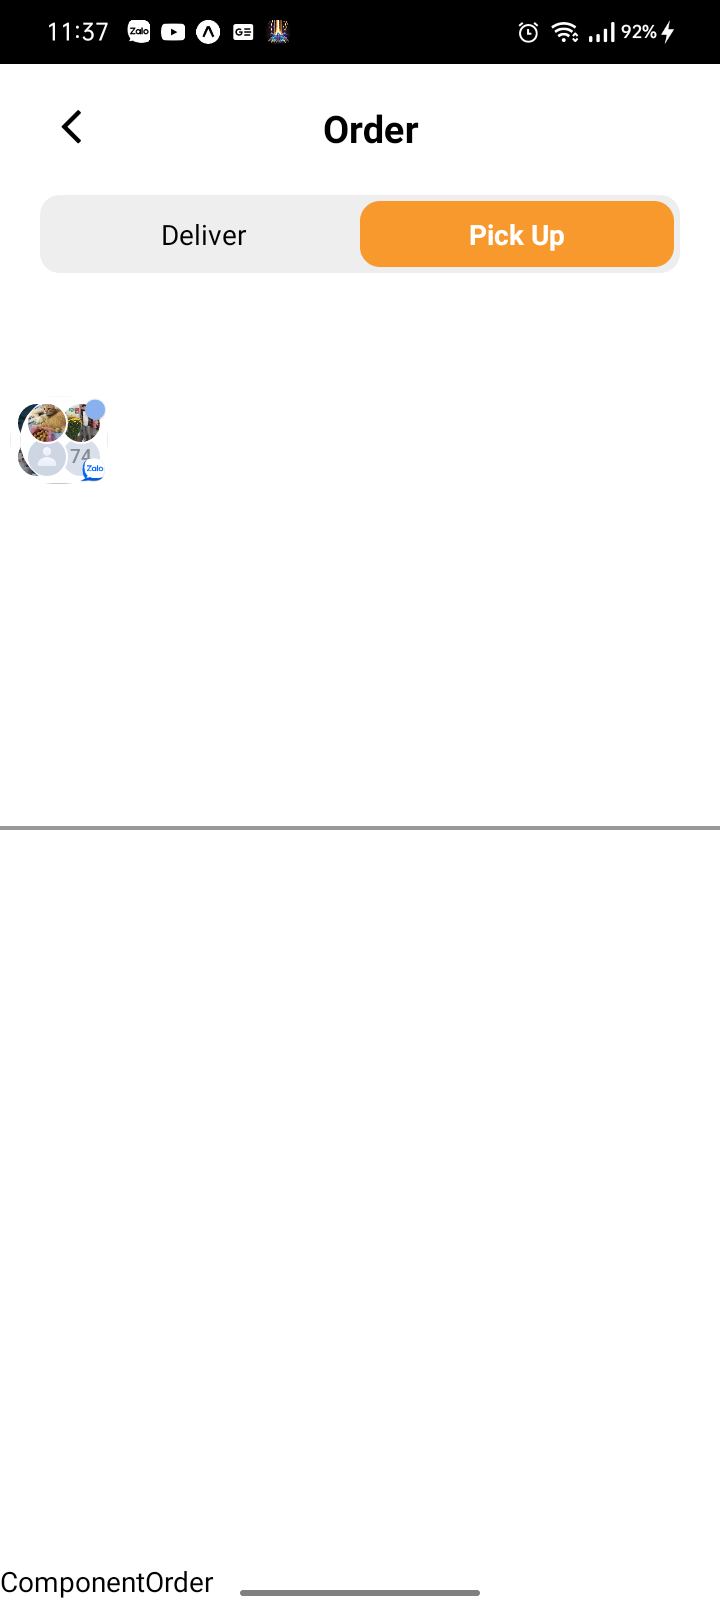
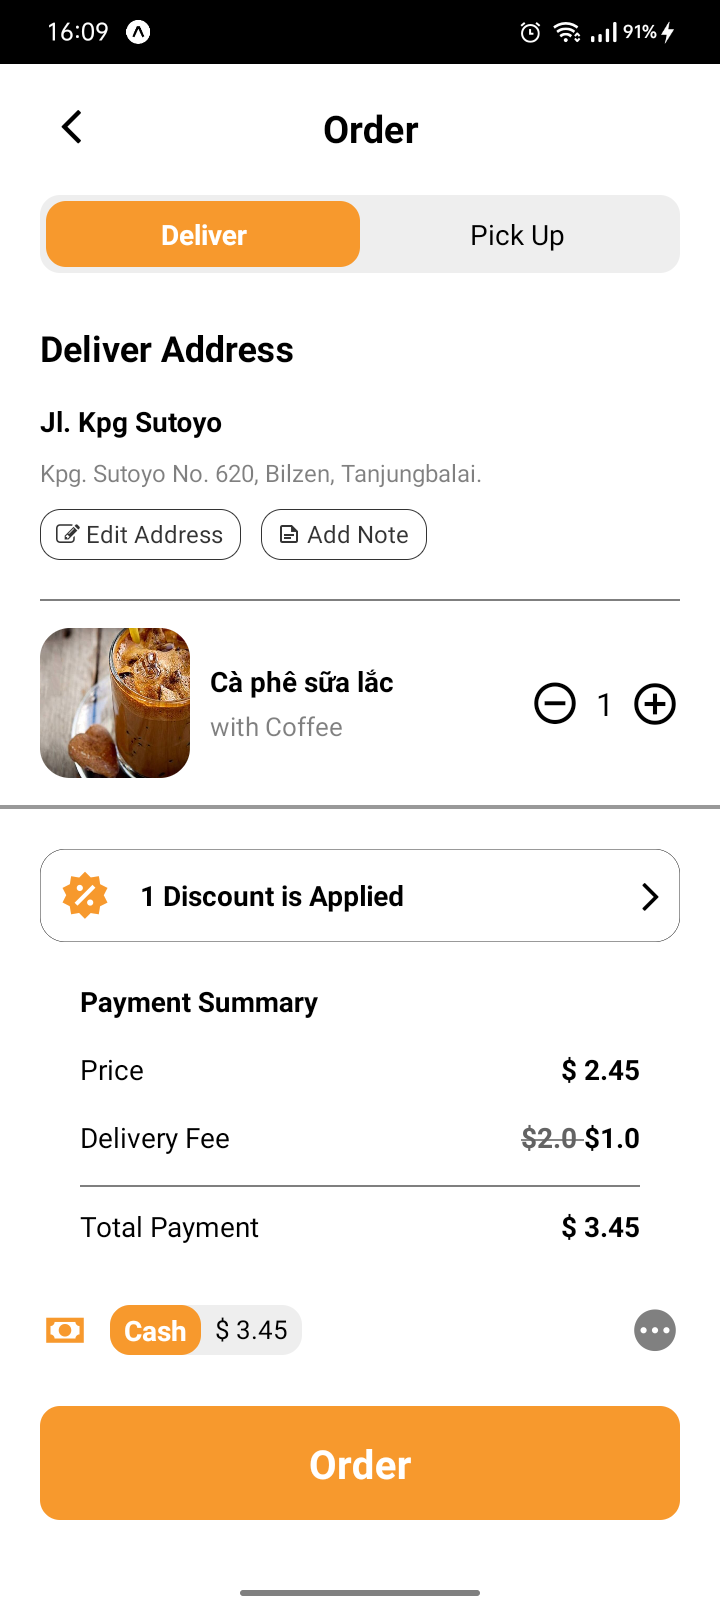
Order: finish screen (70%)

diff --git a/App-onTapTH/src/components/ComponentOrder.js b/App-onTapTH/src/components/ComponentOrder.js
@@ -28,13 +28,10 @@ const ComponentOrder = ({ route, navigation }) => {
 
     }
     /// so luong SP
-    let soLuong = 1;
-
-
-    // console.log("🚀 ~ file: ComponentOrder.js ~ line 5 ~ ComponentOrder ~ route", route)
+    // let soLuong = 1;
+    const [soLuong, setSoLuong] = useState(1);
 
     let { item } = route.params;
-    // console.log("🚀 ~ file: ComponentOrder.js ~ line 8 ~ ComponentOrder ~ item", item)
     return (
         <View style={[styles.flex_1, {
             backgroundColor: '#fff'
@@ -93,26 +90,26 @@ const ComponentOrder = ({ route, navigation }) => {
                 </View>
 
                 {/*  */}
-                <View   style={[  ,{ }]} >
-                    <Text  style={[  ,{
-                        fontWeight:'bold',
+                <View style={[, {}]} >
+                    <Text style={[, {
+                        fontWeight: 'bold',
                         fontSize: 18,
                         marginTop: 25,
                     }]} >Deliver Address</Text>
-                    <Text  style={[  ,{
+                    <Text style={[, {
                         fontWeight: 'bold',
                         marginTop: 15,
                     }]} >Jl. Kpg Sutoyo</Text>
-                    <Text  style={[  ,{
+                    <Text style={[, {
                         marginTop: 8,
                         opacity: 0.5,
                         fontSize: 12,
                     }]} >Kpg. Sutoyo No. 620, Bilzen, Tanjungbalai.</Text>
-                    <View  style={[ styles.row ,{
+                    <View style={[styles.row, {
                         marginTop: 10,
                     }]}  >
-                        <Text  style={[  ,{
-                            fontSize:12,
+                        <Text style={[, {
+                            fontSize: 12,
                             opacity: 0.8,
                             borderRadius: 10,
                             borderWidth: 0.5,
@@ -120,8 +117,8 @@ const ComponentOrder = ({ route, navigation }) => {
                             paddingHorizontal: 8,
                             marginRight: 10,
                         }]} ><IconFontAwesome name='edit' size={12} color={'#000'} /> Edit Address</Text>
-                        <Text  style={[  ,{
-                            fontSize:12,
+                        <Text style={[, {
+                            fontSize: 12,
                             opacity: 0.8,
                             borderRadius: 10,
                             borderWidth: 0.5,
@@ -133,20 +130,25 @@ const ComponentOrder = ({ route, navigation }) => {
                 </View>
 
                 {/*  */}
-                <View   style={[ styles.flex_1, styles.row ,{
+                <View style={[styles.flex_1, styles.row, {
                     marginTop: 20,
-                    borderTopWidth:0.5,
+                    borderTopWidth: 0.5,
                     paddingVertical: 15,
                     alignItems: 'center'
                 }]} >
-                    <Image source={item.img} style ={{width:75, height:75, borderRadius: 15}}/>
-                    <View  style={[ styles.flex_1 ,{marginHorizontal: 10}]} >
-                        <Text  style={[  ,{fontWeight: 'bold'}]} >{item.name}</Text>
-                        <Text  style={[  ,{opacity: 0.5, fontSize: 13, marginTop: 4}]} >with {item.nhaSX}</Text>
+                    <Image source={item.img} style={{ width: 75, height: 75, borderRadius: 15 }} />
+                    <View style={[styles.flex_1, { marginHorizontal: 10 }]} >
+                        <Text style={[, { fontWeight: 'bold' }]} >{item.name}</Text>
+                        <Text style={[, { opacity: 0.5, fontSize: 13, marginTop: 4 }]} >with {item.nhaSX}</Text>
                     </View>
-                    <IconMaterialCommunityIcons name='minus-circle-outline' size={25} color={'#000'}/>
-                    <Text  style={[  ,{padding: 8, fontSize: 16,}]} >{soLuong}</Text>
-                    <IconMaterialIcons name='add-circle-outline' size={25} color={'#000'}/>
+
+                    <TouchableOpacity>
+                        <IconMaterialCommunityIcons name='minus-circle-outline' size={25} color={'#000'} />
+                    </TouchableOpacity>
+                    <Text style={[, { padding: 8, fontSize: 16, }]} >{soLuong}</Text>
+                    <TouchableOpacity>
+                        <IconMaterialIcons name='add-circle-outline' size={25} color={'#000'} />
+                    </TouchableOpacity>
                 </View>
             </View>
             <View style={[, {
@@ -157,11 +159,97 @@ const ComponentOrder = ({ route, navigation }) => {
             }]} >
 
             </View>
-            <View style={[styles.flex_1, {}]} >
+            <View style={[styles.flex_1, {
+                margin: 20,
+            }]} >
+                {/* Footer */}
+                <View style={[styles.row, {
+                    padding: 10,
+                    alignItems: 'center',
+                    borderRadius: 5,
+                    borderWidth: 0.2,
+                }]} >
+                    <IconMaterialCommunityIcons style={[, {}]} name='sale' size={25} color={'#f7992d'} />
+                    <Text style={[styles.flex_1, {
+                        marginHorizontal: 15,
+                        fontWeight: '700',
+                    }]} >1 Discount is Applied</Text>
+                    <IconFontAwesome style={[, {}]} name='angle-right' size={25} color={'#000'} />
+                </View>
+
+                {/*  */}
+                <View style={[, {
+                    marginTop: 20,
+                    marginHorizontal: 20
+                }]} >
+                    <Text style={[, {
+                        fontWeight: 'bold',
+                    }]} >Payment Summary</Text>
+                    <View style={[styles.row, {
+                        marginTop: 15,
+                        justifyContent: 'space-between',
+                    }]} >
+                        <Text style={[, {}]} >Price</Text>
+                        <Text style={[, {
+                            fontWeight: 'bold',
+                        }]} >$ {item.money}</Text>
+                    </View>
+                    <View style={[styles.row, {
+                        marginTop: 15,
+                        justifyContent: 'space-between',
+                    }]} >
+                        <Text style={[, {}]} >Delivery Fee</Text>
+                        <Text style={[, { fontWeight: 'bold', }]} ><Text style={{ textDecorationLine: 'line-through', color: '#636363' }}>$2.0 </Text>$1.0</Text>
+                    </View>
+                    <View style={[styles.row, {
+                        marginTop: 15,
+                        justifyContent: 'space-between',
+                        borderTopWidth: 0.3,
+                        paddingTop: 10,
+                    }]}  >
+                        <Text style={[, {}]} >Total Payment</Text>
+                        <Text style={[, { fontWeight: 'bold' }]} >$ {item.money + 1}</Text>
+                    </View>
+
+
+                </View>
+
+
+                {/*  */}
+                <View>
+                    <View style={[styles.row, {
+                        // justifyContent:'center',
+                        alignItems: 'center',
+                        marginTop: 20,
+                        paddingVertical: 10,
+                    }]} >
+                        <IconMaterialCommunityIcons style={[, {}]} name='cash' size={25} color='#f7992d' />
+                        <View style={[styles.row, { marginLeft: 10, backgroundColor: '#eee', borderRadius: 10, }]} >
+                            <Text style={[styles.colorMenuDS1, { padding: 3, paddingHorizontal: 7, borderRadius: 10, textAlign: 'center' }]}  >Cash</Text>
+                            <Text style={[, { padding: 3, paddingHorizontal: 7, borderRadius: 10, textAlign: 'center', fontSize: 13 }]} >$ {item.money + 1}</Text>
+                        </View>
+                        <View style={styles.flex_1}></View>
+                        <IconMaterialCommunityIcons style={[, {}]} name='dots-horizontal-circle' size={25} color={'gray'} />
+                    </View>
+                    <TouchableOpacity style={[styles.viewCenter, {
+                        backgroundColor: '#f7992d',
+                        marginTop: 15,
+                        marginBottom: 20,
+                        padding: 15,
+                        borderRadius: 10,
+                    }]}
+                        onPress={() => { alert(`Đang cập nhật.`) }}
+                    >
+                        <Text style={[, {
+                            color: '#fff',
+                            fontWeight: 'bold',
+                            fontSize: 20,
+                        }]} >Order</Text>
+                    </TouchableOpacity>
+                </View>
 
             </View>
 
-            <Text>ComponentOrder</Text>
         </View>
     )
 }
